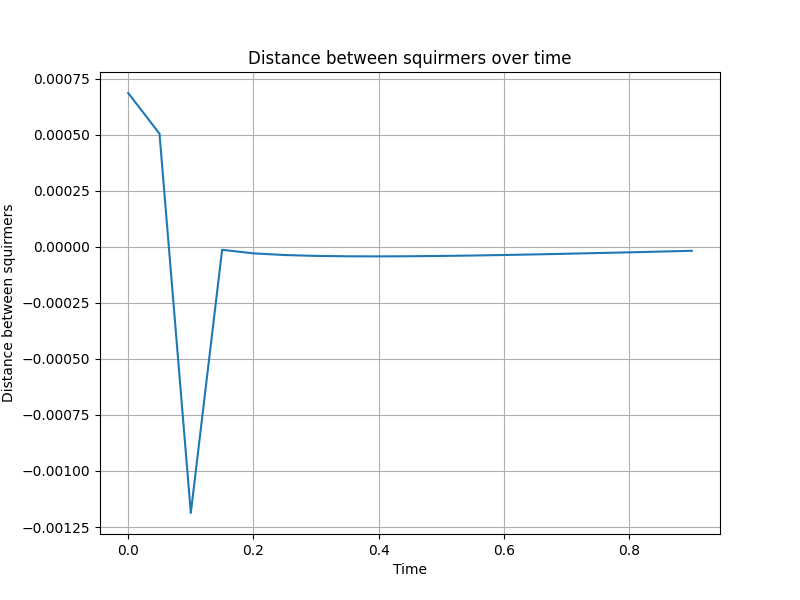
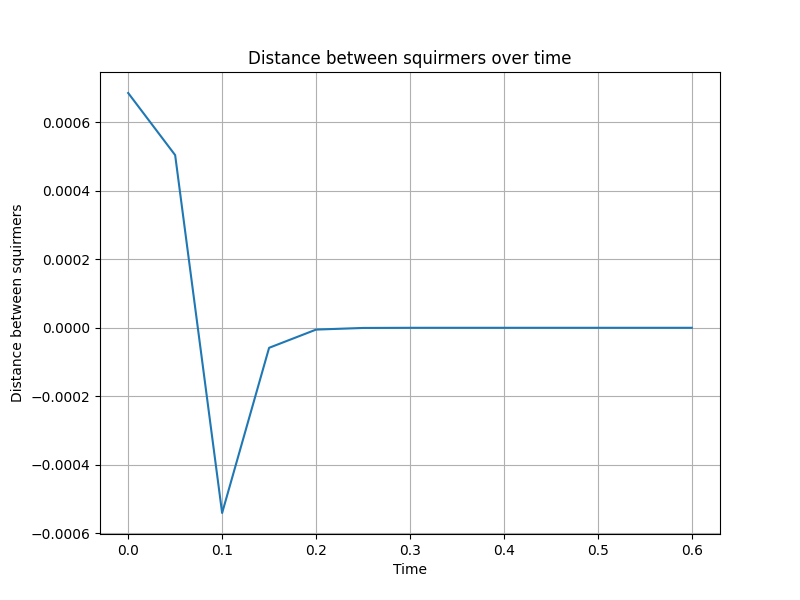
Corrected Fs_x force

diff --git a/Code/interactingsquirmers.py b/Code/interactingsquirmers.py
@@ -131,8 +131,11 @@ class InteractingSquirmers:
         B2 = squirmer.B2
         a = squirmer.radius
 
+        print(Dx, Dy, dist)
+
         eieijt = (np.cos(theta)*Dy - np.sin(theta)*Dx)/dist
         cosalpha = (np.cos(theta)*Dx + np.sin(theta)*Dy)/dist
+        print(cosalpha, "\n")
         sinalpha = np.sqrt(1 - cosalpha * cosalpha)
         somme = - B1 * sinalpha - B2 * cosalpha*sinalpha
         sommeFz = B1*sinalpha*cosalpha - (1/2)*B1*cosalpha*eieijt**2 + B2*sinalpha*cosalpha**2 - (1/2)*B2*(2*cosalpha**2-1)*eieijt**2
@@ -155,9 +158,10 @@ class InteractingSquirmers:
             Dx, Dy, dist = self.distance_sq()
             #Force between squirmers
             if dist < self.ds:
-                tmp = -3*(self.Es/a)*(Dy/dist)*(2*(2*a/dist)**13-(2*a/dist)**7)
-                Fs_x = tmp * Dx
-                Fs_y = tmp * Dy
+                tmp_y = -3*(self.Es/a)*(Dy/dist)*(2*(2*a/dist)**13-(2*a/dist)**7)
+                tmp_x = -3*(self.Es/a)*(Dx/dist)*(2*(2*a/dist)**13-(2*a/dist)**7)
+                Fs_x = tmp_x * Dx
+                Fs_y = tmp_y * Dy
             
             #Compute torques exerted on squirmer by other squirmer
             val1 = 0

diff --git a/Code/run.py b/Code/run.py
@@ -15,7 +15,7 @@ beta = -7.5
 dt = 1e-4
 lnEps_cr = 5
 Es = 1
-T = 1
+T = 0.7
 dt_out = 0.05
 Eo = (3/10)*v0/a
 ds = 2**(7/6)*a
